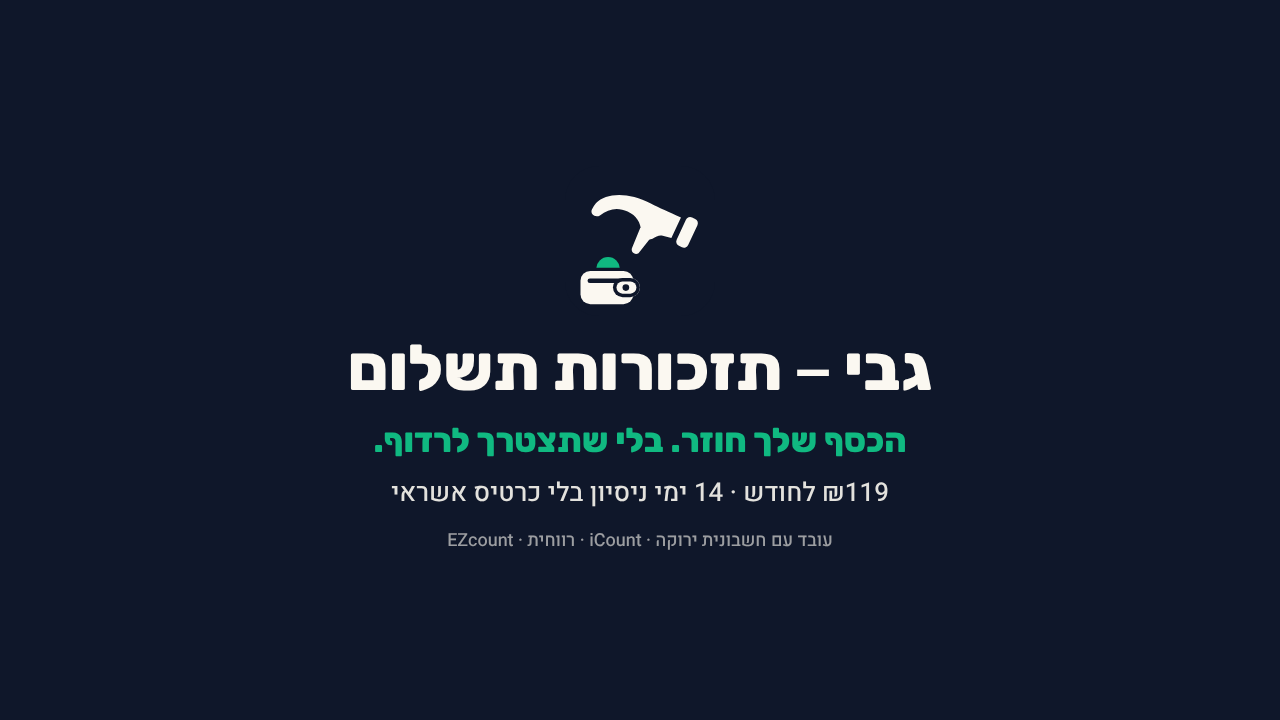
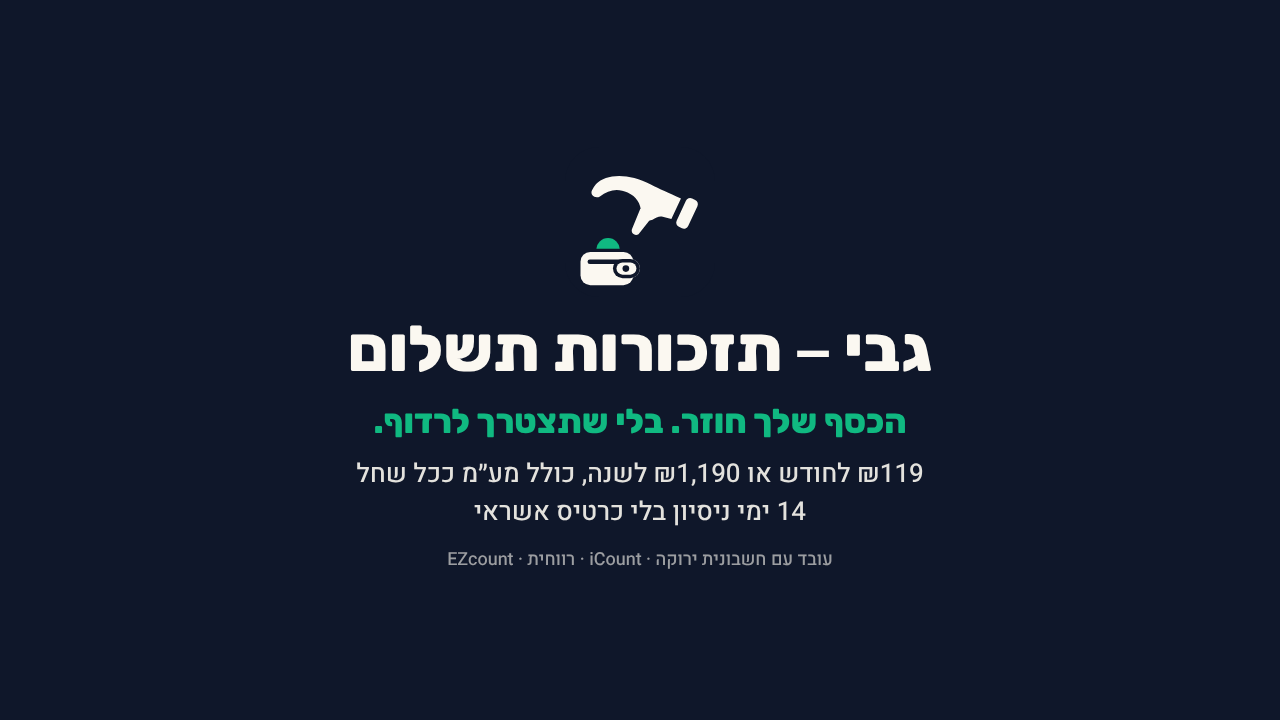
ביקורת · גבי סבב 78: 12 מסלולי לקוח מקצה לקצה + תיקון מחיר בכרטיס-הסיום (מע״מ+שנתי)
Claude-Session: https://claude.ai/code/session_01DUoepGDTamyUfrAJEzAfW3

Changed region(s): [[0.25, 0.4583, 0.75, 0.7944], [0.4375, 0.2444, 0.5625, 0.4278]]

diff --git a/collect-agent/tests/test_customer_journeys.py b/collect-agent/tests/test_customer_journeys.py
@@ -1,0 +1,175 @@
+"""critic · יעד «כל מסלול לקוח עובר מקצה לקצה» (הוראת מאיר 15.11): כל מסלול שחייב יכול לעבור, מהתזכורת הראשונה
+ועד המצב הסופי, דרך ה-API ועמוד החייב — ומה הלקוח קיבל בפועל (יומן היוצאים) + מה המערכת עושה אחר כך.
+כל מסלול נגמר בשאלה אחת: האם אחרי זה יוצאת תזכורת נוספת? (אסור: אחרי תשלום/הסרה/מספר שגוי/מחלוקת/מצוקה/פריסה.)"""
+from __future__ import annotations
+
+import re
+from datetime import timedelta
+
+import pytest
+from fastapi.testclient import TestClient
+
+from app.channels import sent_mark, sent_since
+from app.main import create_app
+from tests.conftest import AUTH, OWNER_TOKEN
+
+PHONE, MAIL = "972501234567", "c1@example.com"
+
+
+@pytest.fixture
+def env(svc):
+    app = create_app(svc, owner_token=OWNER_TOKEN)
+    return svc, TestClient(app, headers=AUTH), TestClient(app)
+
+
+def _first(env) -> str:
+    svc, api, _ = env
+    api.post("/sync")
+    rid = next(i for i in api.post("/plan").json()["created"]
+               if svc._invoice(svc._reminder(i)["invoice_id"])["customer_id"] == 1)
+    assert api.post(f"/reminders/{rid}/approve").status_code == 200
+    api.post("/dispatch")
+    sms = [m for m in svc.sender.sent if m["to"] == PHONE]
+    assert sms, "התזכורת הראשונה לא יצאה"
+    return re.search(r"/p/(\w+)", sms[-1]["body"]).group(1)
+
+
+def _to_c1(svc, mark):
+    return [m for m in sent_since(svc.sender.sent, mark) if m["to"] in (PHONE, MAIL)]
+
+
+def _week_later_nothing(env, clock):
+    """שבוע אחרי: אין תזכורת חדשה ללקוח (גם לא אחרי אישור כל מה שבתור)."""
+    svc, api, _ = env
+    mark = sent_mark(svc.sender.sent)
+    clock.now += timedelta(days=8)
+    for i in api.post("/plan").json()["created"]:
+        if svc._invoice(svc._reminder(i)["invoice_id"])["customer_id"] == 1:
+            api.post(f"/reminders/{i}/approve")
+    api.post("/dispatch")
+    late = [m for m in _to_c1(svc, mark) if "חשבונית" in m["body"] and "1001" in m["body"]]
+    assert late == [], [m["body"][:60] for m in late]
+
+
+def test_j01_pays_at_source(env, clock, fake_gi):
+    svc, api, _ = env
+    _first(env)
+    fake_gi.docs = [d for d in fake_gi.docs if d["id"] != "doc1"]
+    api.post("/sync")
+    assert svc.db.one("SELECT status FROM invoices WHERE id=1")["status"] == "closed"
+    _week_later_nothing(env, clock)
+
+
+def test_j02_page_paid_claim(env, clock):
+    svc, api, pub = env
+    code = _first(env)
+    r = pub.post(f"/p/{code}/paid", follow_redirects=False)
+    assert r.status_code in (200, 303), r.status_code
+    assert svc.db.one("SELECT paused_reason FROM customers WHERE id=1")["paused_reason"] == "paid_claim"
+    _week_later_nothing(env, clock)
+
+
+def test_j03_page_stop(env, clock):
+    svc, api, pub = env
+    code = _first(env)
+    pub.post(f"/p/{code}/stop", follow_redirects=False)
+    assert svc.db.one("SELECT opted_out FROM customers WHERE id=1")["opted_out"] == 1
+    _week_later_nothing(env, clock)
+
+
+def test_j04_page_plan_then_owner_approves(env, clock):
+    svc, api, pub = env
+    code = _first(env)
+    pub.post(f"/p/{code}/plan", follow_redirects=False)
+    plans = api.get("/plans").json()
+    assert plans and plans[-1]["status"] == "proposed", plans
+    mark = sent_mark(svc.sender.sent)
+    assert api.post(f"/plans/{plans[-1]['id']}/approve").status_code == 200
+    offer = _to_c1(svc, mark)
+    assert offer and "ללא תוספת" in offer[-1]["body"], [m["body"][:60] for m in offer]
+    _week_later_nothing(env, clock)
+
+
+def test_j05_sms_hasar(env, clock):
+    svc, api, _ = env
+    _first(env)
+    api.post("/inbound", json={"sender": "050-1234567", "text": "הסר בבקשה"})
+    assert svc.db.one("SELECT opted_out FROM customers WHERE id=1")["opted_out"] == 1
+    _week_later_nothing(env, clock)
+
+
+def test_j06_email_one_click_unsubscribe(env, clock):
+    svc, api, pub = env
+    _first(env)
+    mail = [m for m in svc.sender.sent if m["to"] == MAIL][-1]
+    lu = mail["request"]["headers"]["List-Unsubscribe"]
+    tok = re.search(r"/u/([A-Za-z0-9_-]+)", lu).group(1)
+    assert pub.post(f"/u/{tok}").status_code == 200
+    assert svc.db.one("SELECT opted_out FROM customers WHERE id=1")["opted_out"] == 1
+    _week_later_nothing(env, clock)
+
+
+def test_j07_wrong_person(env, clock):
+    svc, api, _ = env
+    _first(env)
+    api.post("/inbound", json={"sender": "050-1234567", "text": "טעות במספר, אני לא דנה"})
+    assert svc.db.one("SELECT opted_out FROM customers WHERE id=1")["opted_out"] == 1
+    _week_later_nothing(env, clock)
+
+
+def test_j08_dispute_then_owner_resumes(env, clock):
+    svc, api, _ = env
+    _first(env)
+    api.post("/inbound", json={"sender": "050-1234567", "text": "הסכום לא נכון, סגרנו על 800"})
+    assert svc._customer_block(1) == "disputed"
+    _week_later_nothing(env, clock)
+    assert api.post("/customers/1/resume").status_code == 200
+    clock.now += timedelta(days=1)
+    assert [i for i in api.post("/plan").json()["created"]
+            if svc._invoice(svc._reminder(i)["invoice_id"])["customer_id"] == 1], "אחרי «חידוש» התזכורות לא חזרו"
+
+
+def test_j09_distress(env, clock):
+    svc, api, _ = env
+    _first(env)
+    r = api.post("/inbound", json={"sender": "050-1234567", "text": "אני כבר לא יכולה יותר"}).json()
+    assert r["escalation"] == "urgent" and not r.get("auto_sent"), r
+    _week_later_nothing(env, clock)
+
+
+def test_j10_how_to_pay_then_reminders_continue(env, clock):
+    svc, api, _ = env
+    _first(env)
+    r = api.post("/inbound", json={"sender": "050-1234567", "text": "איך אפשר לשלם?"}).json()
+    assert r["intent"] == "how_to_pay"
+    if r.get("draft_id"):
+        api.post(f"/conversation/drafts/{r['draft_id']}/approve", json={})
+    assert svc.db.one("SELECT opted_out, paused_reason FROM customers WHERE id=1")["opted_out"] == 0
+
+
+def test_j11_no_reply_three_then_stop(env, clock):
+    svc, api, _ = env
+    _first(env)
+    for _ in range(4):
+        clock.now += timedelta(days=8)
+        for i in api.post("/plan").json()["created"]:
+            if svc._invoice(svc._reminder(i)["invoice_id"])["customer_id"] == 1:
+                api.post(f"/reminders/{i}/approve")
+        api.post("/dispatch")
+    sent = svc.db.one("SELECT COUNT(*) n FROM reminders r JOIN reminder_invoices x ON x.reminder_id=r.id "
+                      "WHERE x.invoice_id=1 AND r.status='sent_dry_run'")["n"]
+    assert sent == 3, sent
+    assert [m for m in api.get("/owner/inbox").json() if m["intent"] == "max_reminders"]
+
+
+def test_j12_email_only_customer(env, clock, fake_gi):
+    svc, api, _ = env
+    fake_gi.docs[0]["client"]["phone"] = "03-1234567"
+    api.post("/sync")
+    rid = next(i for i in api.post("/plan").json()["created"]
+               if svc._invoice(svc._reminder(i)["invoice_id"])["customer_id"] == 1)
+    api.post(f"/reminders/{rid}/approve")
+    api.post("/dispatch")
+    mine = [m for m in svc.sender.sent if m["to"] in (PHONE, MAIL)]
+    assert [m["channel"] for m in mine] == ["email"]
+    assert "List-Unsubscribe" in mine[0]["request"]["headers"]

diff --git a/collect-agent/team/critic.md b/collect-agent/team/critic.md
@@ -2,6 +2,15 @@
 
 > הסבב העדכני למעלה, וסבבים קודמים מתחת. **דירוג:** 🔴 חוסם לפני פיילוט או הדגמה ללקוח · 🟠 חשוב · 🟡 שיפור. **[מאומת]** = שוחזר בהרצה מקומית (בלי רשת, הסקריפטים מחוץ לריפו). לא נבדקה שום מערכת חיצונית, ולא נשלח ולא פורסם דבר.
 
+# סבב 78 · 15.11.2026 (לולאה, הוראת מאיר) · משימה: «כל מסלול לקוח עובר מקצה לקצה»
+
+`tests/test_customer_journeys.py` כולל 12 מסלולים. כל אחד רץ דרך ה-API ועמוד החייב: מהתזכורת הראשונה, דרך תגובת הלקוח, ועד מצב סופי. אחר כך בודקים שגם שבוע אחרי, ואחרי אישור כל מה שבתור, לא יוצאת עוד תזכורת:
+תשלום במקור · «שילמתי» בעמוד · הסרה בעמוד · בקשת הסדר בעמוד ← הבעלים מאשר ← יוצאת הצעה «ללא תוספת» · «הסר» ב-SMS · הסרה בקליק אחד במייל (List-Unsubscribe) · מספר שגוי · מחלוקת ← «חידוש» מחזיר תזכורות · מצוקה (דחוף, בלי שליחה אוטומטית) · «איך משלמים» (הלקוח נשאר פעיל) · אין תגובה ← בדיוק 3 תזכורות, ואז max_reminders לבעלים · לקוח עם מייל בלבד (ערוץ מייל + List-Unsubscribe).
+**12/12 ירוק. לא נמצא באג במסלולים.**
+
+🟡 **באג בצוות, a14cc1ba:** כרטיס הסיום של הסרטונים (`marketing/video/compose/endcard.mjs`) הציג «₪119 לחודש» בלי «כולל מע״מ ככל שחל» ובלי המחיר השנתי, וזה מפר את חוק המחיר של הבעלים. המגן `test_marketing_price_always_with_vat_and_yearly` היה אדום על הבסיס, לפני כל שינוי שלי. ⇒ תוקן: «₪119 לחודש או ₪1,190 לשנה, כולל מע״מ ככל שחל», וימי הניסיון עברו לשורה נפרדת כדי שבגרסה האנכית לא תיפול «·» בתחילת שורה. ה-PNG של `end/` חודשו וצילומי המסך נבדקו.
+⚠ **פתוח לצוות:** קובצי ה-MP4 (`gabi-demo-16x9*.mp4`, `gabi-reel-9x16*.mp4`) עדיין מכילים את הכרטיס הישן. צריך להריץ שוב את `finish.py` ואת `finish_check.py`. בנוסף, בגרסה האנכית הכותרת «גבי – תזכורות תשלום» נוגעת בשולי המסגרת (בעיה שהייתה קיימת קודם).
+
 # סבב 77 · 15.11.2026 (לולאה, הוראת מאיר) · בסיס `ef30b646` · משימה: ההנחה «חשבונית פתוחה במקור = לא שולמה»
 | # | מקרה | תוצאה |
 |---|---|---|
@@ -1028,6 +1037,7 @@
 - **סבב 75 · 15.11.2026 (מתוזמן):** הפעלות 206–208 תקינות. מחיקת ר-10 מכסה את ה-DB. 🟡 יומן ה-dry-run בזיכרון (/outbox) שמר PII אחרי ההתממה ⇒ מושחר במקום, והמונים נשמרו.
 - **סבב 76 · 15.11.2026 (מתוזמן):** הפעלות 209–211 וסקריפט החוזה תקינים (הסרה לא נבלעת בדדופ). 🟡 הסדר נתקע ב-approving אחרי קריסה ⇒ התאוששות ב-dispatch עם claimed_at.
 - **סבב 77 · 15.11.2026 (לולאה):** ההנחה «פתוח = לא שולם»: חלקי, זיכוי ו«שילמתי» מכוסים. ⚠ קבלה לא-מקושרת או לא-סוגרת לא נבדקת ⇒ נוספה בדיקת receipts_link לסקריפט החוזה (לא אומת עד ה-sandbox).
+- **סבב 78 · 15.11.2026 (לולאה):** 12 מסלולי לקוח מקצה לקצה (API ועמוד החייב). כולם ירוקים, ואחרי מצב סופי לא יוצאת תזכורת נוספת. גם 50 ההודעות העיוורות שלי בריפו (5cd26e86). 🟡 כרטיס הסיום של הסרטון הוצג בלי מע״מ ובלי מחיר שנתי ⇒ תוקן. ה-MP4 עדיין לא הורכבו מחדש.
 - **סבב 49 · 11.11.2026 (מתוזמן):** 3 commits של הצוות עקביים. 🟡 אישור הסדר מהדשבורד עם סכום חריג נתקע ⇒ תיבה; 🟡 התראת amount_check בלי כותרת ⇒ תוקן. שניהם צולמו.
 - **סבב 48 · 11.11.2026 (מתוזמן):** 3 commits של הצוות תקינים (amount_check משולב נכון עם 32.1). 🟠 תשובות שיחה עקפו את בדיקת הסכום החריג ⇒ confirm_amount גם בטיוטות ובהסדר + תיבה בממשק.
 - **סבב 47 · 11.11.2026 (מתוזמן):** 4 commits של הצוות (מייל/תאריכים) תקינים; מטבע זר תקין. 🟡 מספר ריק ⇒ קישור תשלום עם invoice= ריק ועמוד חייב עם רווח ⇒ תוקן.
